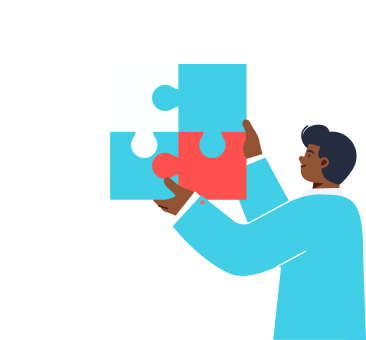
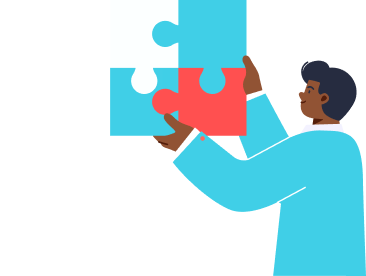
atualizacao do responsivo das ondas

diff --git a/css/dectop-large.css b/css/dectop-large.css
@@ -302,7 +302,7 @@ article {
 }
 
 .container {
-    width: 1280px;
+    width: 1400px;
     max-width: 100%;
     margin: 0 auto;
 }
@@ -318,7 +318,8 @@ article {
 
     top: -180px;
 }
-.top-box-bottom{
+
+.top-box-bottom {
     top: -900px;
 }
 
@@ -333,6 +334,7 @@ article {
     position: absolute;
     width: 100%;
     height: 100%;
+
 }
 
 .container-img div {
@@ -389,19 +391,19 @@ article {
 
 .center {
     text-align: center;
-    
+
 
 }
 
 .anside-dowload {
-    border-radius: 4%;
+    border-radius: 20px;
 }
 
 .anside-top {
     margin-bottom: 100px;
     width: 50%;
     background-color: rgba(0, 213, 248, 1);
-    border-radius: 4%;
+    border-radius: 20px;
 }
 
 .center-top {
@@ -412,7 +414,7 @@ article {
 .text-box-top {
     font-size: 42px;
     color: rgba(43, 43, 43, 1);
-    
+
     margin: 0;
     text-align: left;
 }
@@ -544,6 +546,7 @@ footer {
 
 .box-branco {
     background-color: #FFFFFF;
+    border-radius: 20px;
 }
 
 .box-azul1 {
@@ -605,7 +608,7 @@ footer {
 .anside1 {
     margin-top: -30px;
     margin-bottom: 30px;
-    border-radius: 4%;
+    border-radius: 10px;
     padding-top: 30px;
     margin-right: 30px
 }
@@ -613,19 +616,19 @@ footer {
 .anside2 {
 
     margin-top: 30px;
-    border-radius: 4%;
+    border-radius: 10px;
 }
 
 .anside3 {
     margin-bottom: 30px;
-    border-radius: 4%;
+    border-radius: 10px;
     margin-right: 30px
 }
 
 .anside4 {
     margin-top: 30px;
     margin-bottom: -20px;
-    border-radius: 4%;
+    border-radius: 10px;
 }
 
 .position {
@@ -677,7 +680,8 @@ footer {
 
 
 }
-.box-1-top{
+
+.box-1-top {
     margin: 0px 0px 0px 20px;
     color: rgba(255, 255, 255, 1);
 }
@@ -733,7 +737,7 @@ footer {
 
 .anside-bottom {
     margin-bottom: 50px;
-    border-radius: 4%;
+    border-radius: 20px;
 }
 
 .num-box {
@@ -768,11 +772,18 @@ footer {
     width: 100%;
     background-color: rgba(0, 143, 231, 1);
 }
-.position-absolute{
-    position: absolute!important;
+
+.position-absolute {
+    position: absolute !important;
 }
-.margin-top-card{
+
+.margin-top-card {
     margin-top: -70px;
+}
+
+.padding-bottom-box-branco {
+    padding-bottom: 1px;
+
 }
 
 

diff --git a/index.html b/index.html
@@ -32,6 +32,7 @@
         </div>
         <div class="img-head">
           <picture>
+
             <source srcset="./Group-1299.png" media="(max-width: 768px)">
             <img class="img-head-size" src="./Group-1299.png" alt="MDN">
           </picture>
@@ -88,7 +89,7 @@
                   <p class="box-1-top">1</p>
                 </div>
                 <div class="center ">
-                 
+
                   <picture>
                     <source srcset="./Ilustra-card-MB.png" media="(max-width: 768px)">
                     <img src="./Ilustra-card.png" alt="" srcset="">
@@ -105,7 +106,7 @@
                   <p class="box-1">2</p>
                 </div>
                 <div class="center">
-                  
+
                   <picture>
                     <source srcset="./Ilustra-card-1-MB.png" media="(max-width: 768px)">
                     <img src="./Ilustra-card2.png" alt="" srcset="">
@@ -144,7 +145,7 @@
                   <p class="box-1">4</p>
                 </div>
                 <div class="center margin-top-card">
-                  
+
                   <picture>
                     <source srcset="./Ilustra-card-3-MB.png" media="(max-width: 768px)">
                     <img src="./Ilustra-card4.png" alt="" srcset="">
@@ -245,7 +246,7 @@
 
     <div class="container">
       <div class="texto-img bottom- top-box-bottom ">
-        <div class="box-branco">
+        <div class="box-branco padding-bottom-box-branco">
           <div class="container-box">
             <div class="">
               <div class=" anside-top">

diff --git a/css/mobile.css b/css/mobile.css
@@ -310,13 +310,10 @@
         top: -63px;
     }
 
-    .img-head {
-        bottom: -27%;
 
-    }
 
     .flex-box {
-        display: block;
+        display: flow-root;
     }
 
     .sub {
@@ -328,7 +325,8 @@
         font-size: 16px;
 
     }
-    .text-box{
+
+    .text-box {
         font-size: 16px;
         padding-bottom: 14px;
     }
@@ -363,21 +361,37 @@
         justify-content: center;
         margin: 0;
     }
-    .margin-bottom{
+
+    .margin-bottom {
         margin-bottom: 600px;
     }
-    .top-box-bottom{
+
+    .top-box-bottom {
         top: -740px;
     }
-    .box-text-end{
+
+    .box-text-end {
         margin-top: -53px;
     }
-    .center{
+
+    .center {
         margin: 0;
     }
-    .anside3{
+
+    .anside3 {
         margin-top: 30px;
     }
 
 
+}
+
+@media only screen and (max-width: 500px) {
+    .img-head {
+
+        display: flex;
+
+        align-items: flex-end;
+
+        height: 736pt;
+    }
 }

diff --git a/css/tablet.css b/css/tablet.css
@@ -20,11 +20,13 @@
     .max-width {
         padding: 0;
     }
-    .sub{
+
+    .sub {
         font-size: 20px;
     }
-    .container-img-object-1{
-       object-fit: fill;
+
+    .container-img-object-1 {
+        object-fit: fill;
     }
 
 

diff --git a/css/desctop.css b/css/desctop.css
@@ -14,6 +14,9 @@
     }
     .container-img-object-1{
         object-fit: cover;
+        border-radius: 0;
     }
+
+    
 
 }
